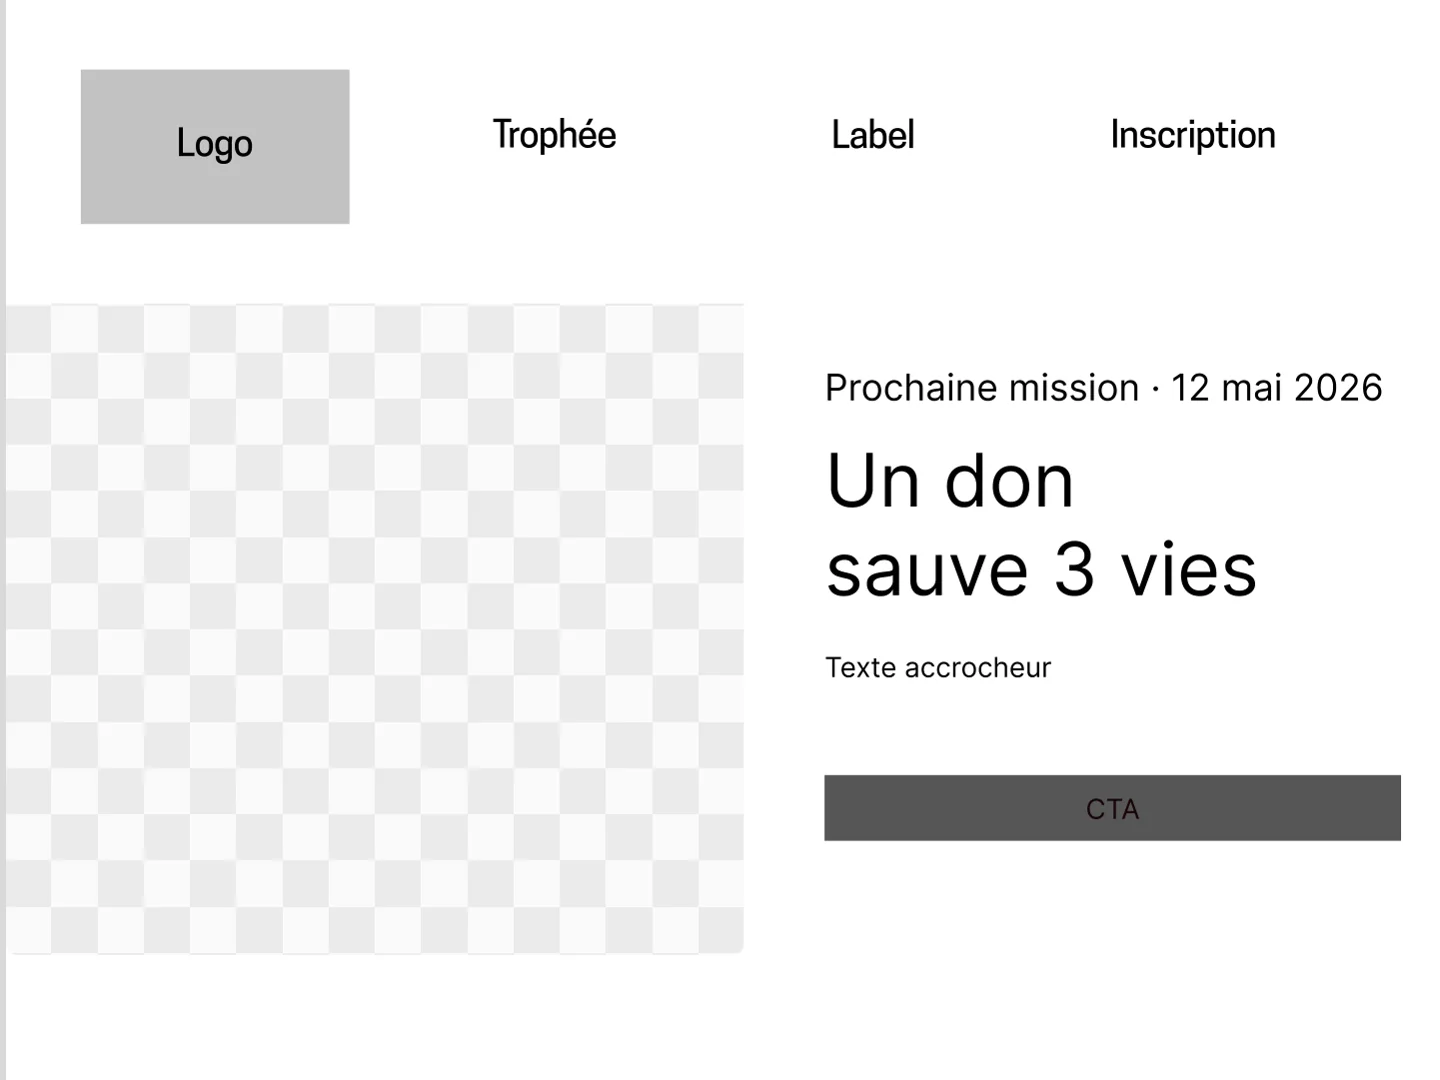
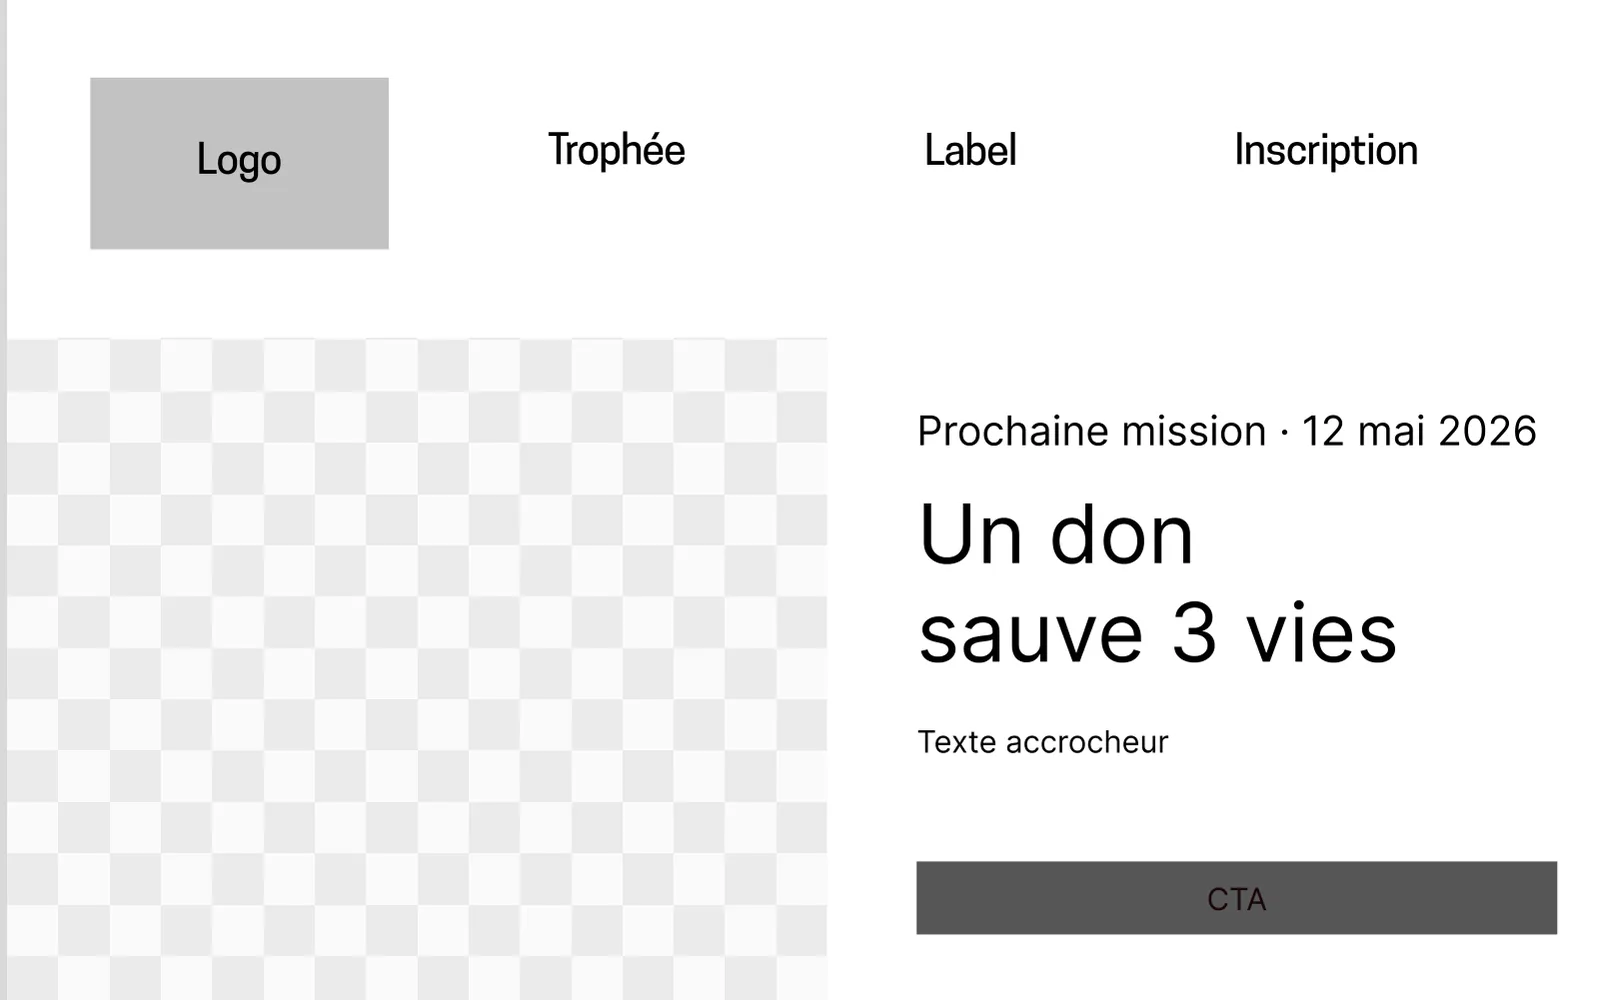
HUG case study: real captures of the live site (6 steps) and in the comparator

diff --git a/src/data/caseStudies.ts b/src/data/caseStudies.ts
@@ -162,35 +162,39 @@ const HUG_FR: CaseStudy = {
       content: [
         {
           type: 'compare',
-          before: img('avant-wireframe-entreprise', 1440, 1080, 'Wireframe en niveaux de gris du haut de la page d’une entreprise partenaire'),
-          after: img('apres-site-entreprise', 1440, 1080, 'Haut de la page d’une entreprise partenaire sur le site en ligne'),
+          before: img('avant-wireframe-entreprise', 1600, 1000, 'Wireframe en niveaux de gris du haut de la page d’une entreprise partenaire'),
+          after: img('apres-site-entreprise', 1600, 1000, 'Haut de la page d’une entreprise partenaire sur le site en ligne'),
           beforeLabel: 'Wireframe',
           afterLabel: 'Site en ligne',
           caption: 'La page d’une entreprise, du wireframe au site en ligne. Faites glisser pour comparer.',
         },
         {
           type: 'steps',
-          frame: 'mockup',
+          frame: 'screen',
           steps: [
             {
+              text: 'L’accueil s’adresse aux entreprises : « Les HUG mènent l’enquête ». On y découvre le programme et on inscrit son entreprise.',
+              image: img('site-accueil', 1600, 1000, 'Page d’accueil : « Les HUG mènent l’enquête », avec une loupe sur une goutte de sang'),
+            },
+            {
               text: 'Chaque entreprise reçoit sa propre page, à ses couleurs : un don sauve trois vies, une mission de sept minutes.',
-              image: img('site-1', 1600, 1200, 'Ordinateur portable affichant la page d’une entreprise : « Un don de sang sauve 3 vies. Une mission de 7 minutes. »'),
+              image: img('site-entreprise', 1600, 1000, 'Page de la Banque Cantonale de Genève, en rouge : « Un don de sang sauve 3 vies. Une mission de 7 minutes. »'),
             },
             {
-              text: 'L’enquête reprend les critères officiels du centre de transfusion, posés comme les questions d’un interrogatoire.',
-              image: img('site-2', 1600, 1200, 'Écran affichant une question de l’enquête : « Avez-vous entre 18 et 75 ans ? » sur un dossier en papier kraft'),
+              text: 'Sur la même page, un tableau d’indices répond aux questions qu’on n’ose pas poser : est-ce que ça fait mal, combien de temps ça dure.',
+              image: img('site-indices', 1600, 1000, 'Tableau de liège avec des fiches reliées par des fils rouges : « C’est quoi le don du sang ? »'),
             },
             {
-              text: 'Le verdict tombe tout de suite. Éligible : on prend rendez-vous. Sinon : on transmet l’enquête à un collègue.',
-              image: img('site-3', 1600, 1200, 'Dossier d’agent tamponné « Éligible », avec le bouton de prise de rendez-vous'),
+              text: 'L’enquête reprend les critères officiels, posés comme les questions d’un interrogatoire. À la fin, la personne éligible prend rendez-vous ; les autres transmettent l’enquête à un collègue.',
+              image: img('site-enquete', 1600, 1000, 'Question de l’enquête sur un dossier en papier kraft : « Avez-vous entre 18 et 75 ans ? »'),
             },
             {
-              text: 'Toutes les entreprises qui organisent une collecte reçoivent le Label 100 pour Sang ; le Trophée Sangsationnel récompense les trois plus engagées.',
-              image: img('site-4', 1600, 1200, 'Ordinateur portable affichant le classement 2026 du trophée avec un podium'),
+              text: 'Toutes les entreprises qui organisent une collecte reçoivent le Label 100 pour Sang ; le Trophée Sangsationnel classe les plus engagées.',
+              image: img('site-trophee', 1600, 1000, 'Classement 2026 du trophée avec un podium de trois entreprises'),
             },
             {
-              text: 'Le centre de transfusion suit chaque collecte depuis son administration et envoie un rapport à chaque entreprise.',
-              image: img('site-5', 1600, 1200, 'Deux tablettes affichant le tableau de bord de l’administration'),
+              text: 'Le centre de transfusion suit tout depuis son administration, jusqu’à la question où les gens abandonnent l’enquête.',
+              image: img('site-admin', 1600, 1000, 'Page Analytics de l’administration : entonnoir, abandons par question, appareils et sources'),
             },
           ],
         },
